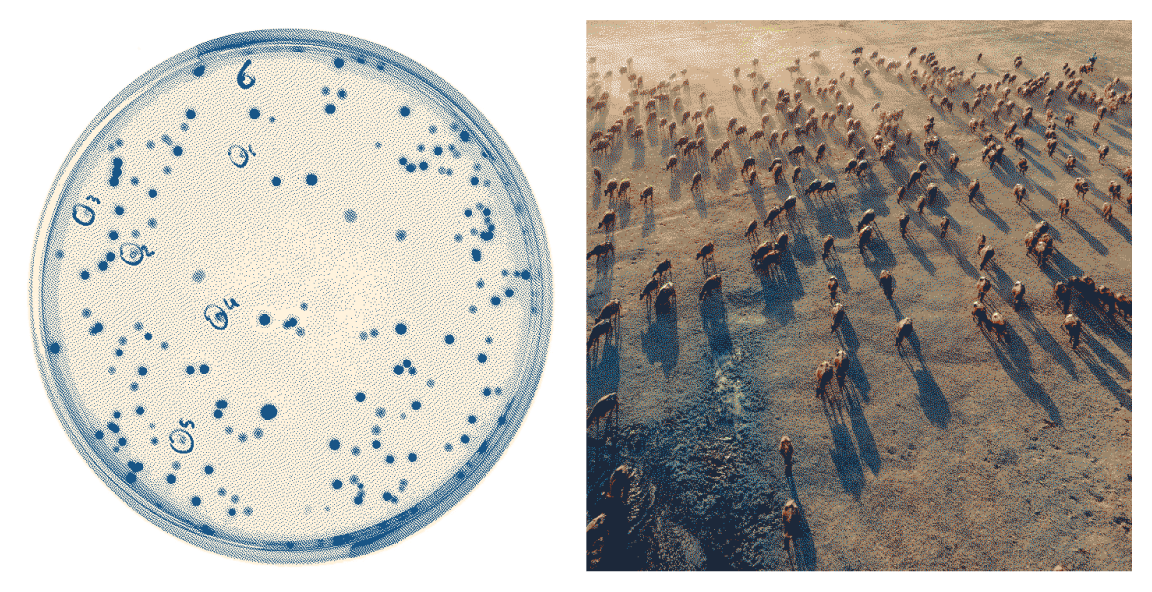
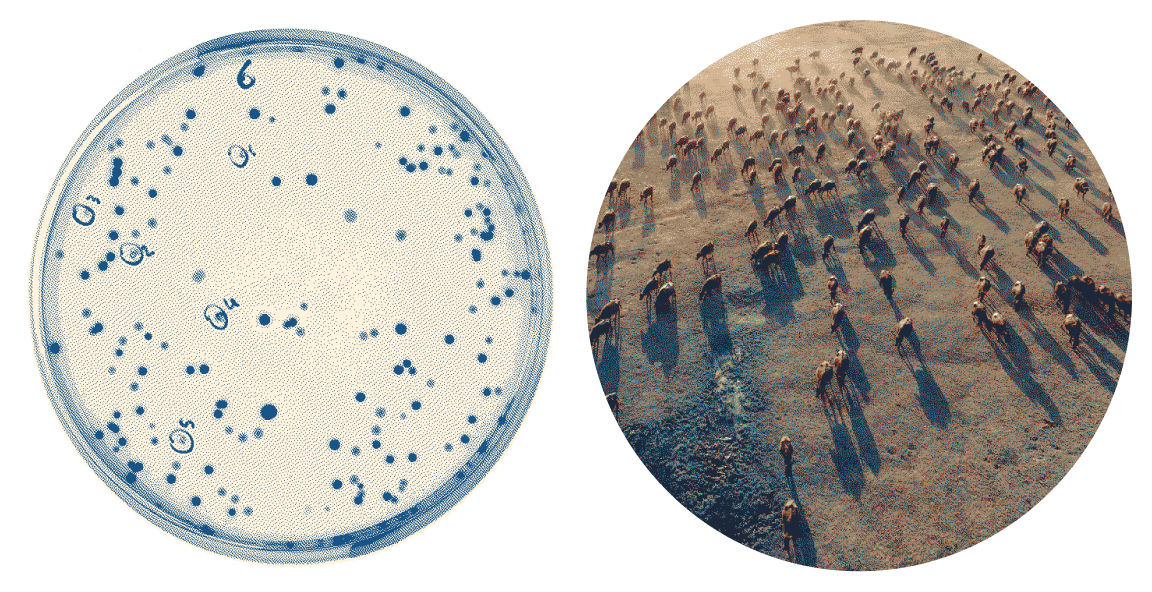
troca imagem do texto e coloca botao de about no mobile tambem

diff --git a/index.html b/index.html
@@ -293,6 +293,10 @@
               <button data-micromodal-trigger="modal-1" class="modal-open">
                 Read more
               </button>
+
+              <button data-micromodal-trigger="modal-2" class="modal-open">
+                About
+              </button>
             </div>
 
             <!-- Desktop content -->
@@ -309,7 +313,7 @@
             <p class="intro__credits">
               A project by
               Rodolfo Almeida for
-              Information XYZ (Information+ 2023).
+              Information+ 2023.
             </p>
           </div>
         </div>

diff --git a/site/css/styles.css b/site/css/styles.css
@@ -30,6 +30,7 @@ button {
   padding: 0.3rem 1.5rem;
   position: relative;
   text-transform: uppercase;
+  margin-bottom: 10px;
 }
 
 button:hover,
